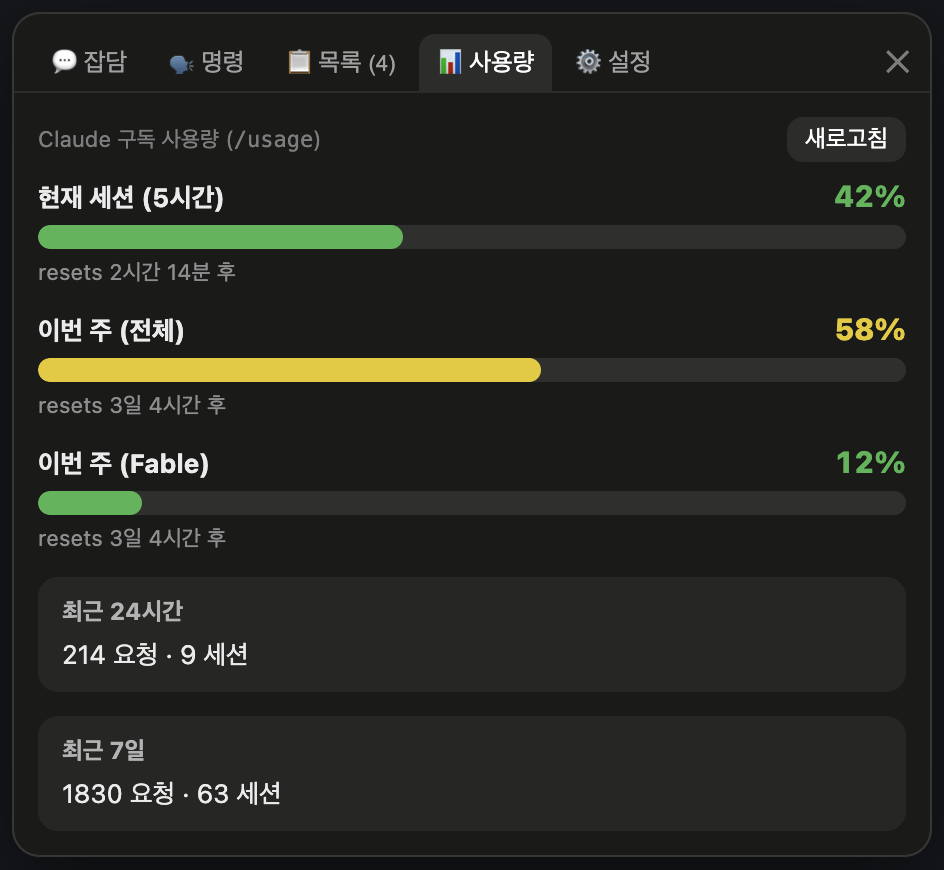
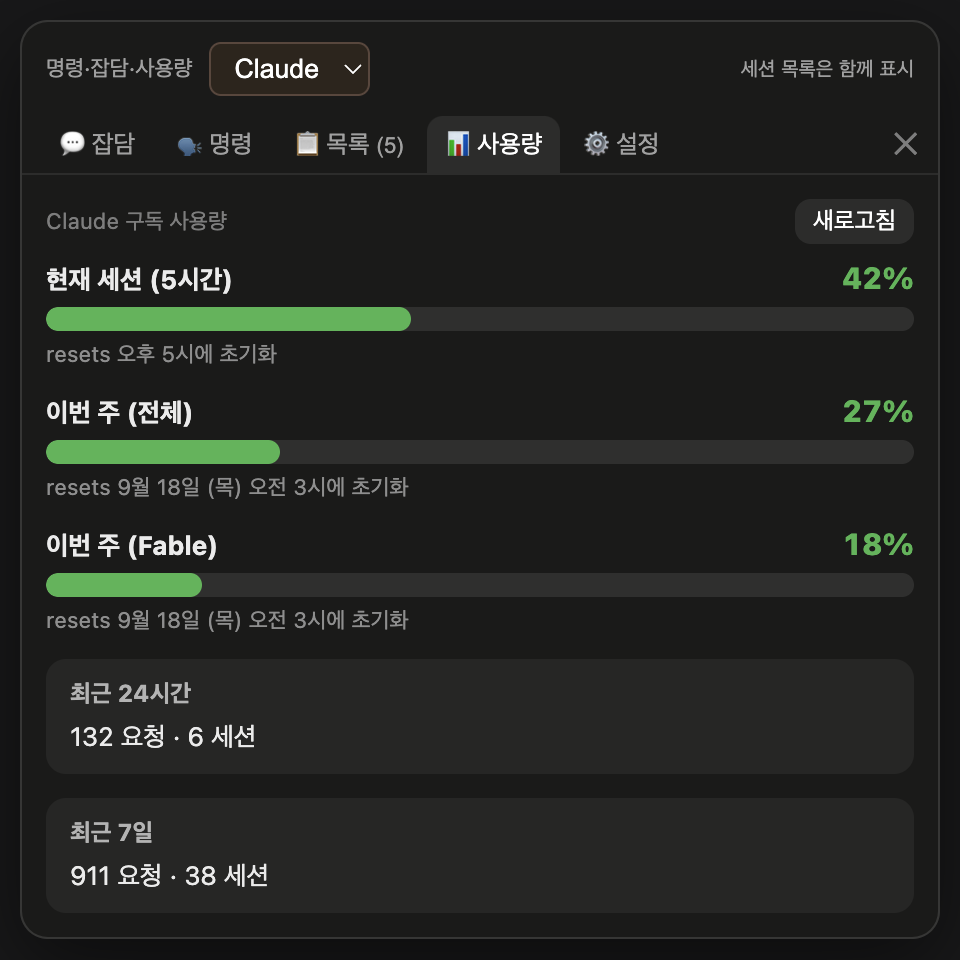
v1.1.0: README·스크린샷 갱신, iTerm2 창 포커스 수정, AGENTS.md 정리
- README: Codex 지원을 본문에 통합(요구 사항·사용법·훅·폼·지원 표·호환성), 세션 폼 경로를
  공용 수신함(~/Library/claude-session-pets-forms)으로 정정, 파일 구조·변경 내역 추가
- 스크린샷 9장 재생성(더미 데이터): Claude·Codex 혼합 세션펫, 알림 링, 목록, 우클릭 메뉴,
  설정, Claude/Codex 사용량 탭, HP바. 생성기 test/screenshots.cjs 추가
- 창 앞으로 가져오기: iTerm2가 셸을 iTermServer 데몬(launchd 직속) 아래에 띄워 조상 체인에
  .app이 없어 nohost("창을 찾지 못했어요")가 나던 문제 — 데몬 이름으로 iTerm2 인식(open -b 폴백)
- AGENTS.md: 기계 치환된 CLAUDE.md 사본을 Codex 에이전트용 짧은 포인터로 교체
- build-app.sh: 번들에서 docs/·AGENTS.md 제외. CLAUDE.md에 lib/test/assets 구조와 iTermServer gotcha 기록

diff --git a/main.js b/main.js
@@ -948,6 +948,10 @@ async function findHostApp(pid) {
     if (!node) break;
     const mm = node.comm.match(/^(.*\/([^/]+)\.app)\/Contents\/MacOS\//);
     if (mm) return { bundlePath: mm[1], appName: mm[2] };
+    // iTerm2는 셸을 .app 안의 실행파일이 아니라 `~/Library/Application Support/iTerm2/iTermServer-<ver>`
+    // 데몬(launchd 직속)으로 띄우므로 조상 체인에 .app 경로가 없다 → 데몬 이름으로 iTerm2를 인식.
+    // (안 하면 nohost → "창을 찾지 못했어요"가 뜬다. 실측: claude ← zsh ← login ← iTermServer-3.6.11 ← launchd)
+    if (/\/iTermServer(-[^/]*)?$/.test(node.comm)) return { bundlePath: null, bundleId: 'com.googlecode.iterm2', appName: 'iTerm2' };
     if (node.ppid <= 1) break;
     cur = node.ppid;
   }
@@ -1049,8 +1053,9 @@ ipcMain.handle('focus-session', async (_e, { pid, tty, cwd }) => {
       // notfound/noproc(제목에 폴더명 없음 등) → 아래 앱 통째 activate로 폴백
     }
     // 폴백: 앱 번들을 앞으로 (특정 창 매칭 실패 시)
+    const openArgs = host.bundlePath ? ['-a', host.bundlePath] : ['-b', host.bundleId];
     const r = await new Promise((res) =>
-      execFile('open', ['-a', host.bundlePath], (err) => res(err)));
+      execFile('open', openArgs, (err) => res(err)));
     if (!r) return { ok: true, app: host.appName };
     return { ok: false, error: String(r.message || r) };
   }

diff --git a/README.md b/README.md
@@ -1,29 +1,54 @@
 # 🐦 Claude Session Pets
 
-실행 중인 **Claude CLI 세션을 감시해, 세션마다 작은 데스크탑 펫을 띄우는** macOS 앱.
+실행 중인 **Claude Code · Codex 세션을 감시해, 세션마다 작은 데스크탑 펫을 띄우는** macOS 앱.
 각 펫이 자기 세션의 상태(작업 중 · 입력 필요 · 완료)와 **지금 하고 있는 작업**을 말풍선으로 보여줍니다.
 
 > Electron 기반. 화면 위를 돌아다니는 투명 오버레이라 다른 작업을 방해하지 않습니다.
 > 메인펫은 어른새, 세션마다 뜨는 작은 펫은 그 아기새입니다(둘 다 원하는 이미지로 교체 가능).
 
-![세션마다 뜨는 펫이 작업 중 · 완료 · 입력 필요 · 폼 대기 상태를 말풍선으로 보여줍니다](docs/screenshots/session-pets.png)
+![Claude·Codex 세션마다 뜨는 펫이 작업 중 · 완료 · 입력 필요 상태를 말풍선으로 보여줍니다. 이름표 아이콘과 테두리 색으로 서비스를 구분합니다](docs/screenshots/session-pets.png)
 
-### 사용량 표시
+**v1.1.0** — Claude Code에 더해 **Codex CLI · Codex 데스크톱 앱** 세션도 함께 표시합니다. 이름표 앞의 아이콘과 초록 테두리가 Codex 펫입니다. 자세한 내용은 [Codex 지원](#codex-지원) 절 참고.
 
-메인펫 머리 위에 **게임 HP바처럼 2줄**(5시간 세션 / 주간)로 Claude 구독 사용량을 표시합니다.
-펫을 클릭 → **📊 사용량** 탭에서 세션·주간(모델별, Fable 등)·최근 24h/7d 상세를 볼 수 있습니다.
+---
+
+## 한눈에 보기
+
+### 알림 강조 — 놓치지 않게
+
+완료·입력 필요·폼 대기 시 펫이 **점프**하고 주위로 **링 파동**이 리듬 있게 퍼집니다(완료=초록, 입력 필요=주황).
+오래 확인하지 않으면 **화면 배경이 어두워져(스포트라이트)** 펫이 도드라집니다. 둘 다 ⚙ 설정에서 켜고 끌 수 있습니다.
+
+![완료 펫엔 초록 링, 입력 필요 펫엔 주황 링이 퍼집니다](docs/screenshots/alert-halo.png)
+
+### 사용량 표시 — 게임 HP바처럼
+
+메인펫 머리 위에 **2줄 HP바**(5시간 세션 / 주간)로 구독 사용량을 표시합니다. 펫을 클릭 → **📊 사용량** 탭에서 상세를 볼 수 있습니다.
+패널 위쪽의 **Claude / Codex** 선택으로 어느 서비스의 사용량을 볼지 고릅니다.
 
 <p align="center">
-  <img src="docs/screenshots/mainpet-hp.png" alt="메인펫 머리 위 사용량 HP바" height="220">
+  <img src="docs/screenshots/mainpet-hp.png" alt="메인펫 머리 위 사용량 HP바" height="230">
   &nbsp;&nbsp;
-  <img src="docs/screenshots/usage-tab.png" alt="사용량 탭 상세" height="220">
+  <img src="docs/screenshots/usage-tab.png" alt="Claude 사용량 탭 — 세션·주간(모델별)·최근 24h/7d" height="230">
+  &nbsp;&nbsp;
+  <img src="docs/screenshots/usage-tab-codex.png" alt="Codex 사용량 탭 — 5시간·주간 구간" height="230">
 </p>
 
-### 세션 폼 (입력이 필요할 때 펫이 폼을 띄움)
+### 세션 목록 — Claude와 Codex를 한 화면에
 
-세션에서 **`/session-form on`** 을 한 번 치면, 이후 클로드가 사용자 확인·선택·입력이 필요할 때(리뷰 결과 승인, 방안 선택 등)
-인라인으로 묻는 대신 **입력 폼**을 만들어 그 세션의 펫에 📋로 띄웁니다. 폼을 채워 **전송**하면 그 답을 세션에 되돌려 작업을 이어갑니다.
-(`/session-form off` 로 끔.) 폼은 `<프로젝트>/docs/form/`에 남습니다.
+**📋 목록** 탭에 이 PC의 Claude CLI 프로세스와 Codex 세션(CLI · 데스크톱 앱 · 공유 서버)이 함께 뜹니다.
+각 행에서 **메시지 보내기**(살아있는 세션에 프롬프트 전달), **종료/중단**, 데스크톱 펫 **숨기기/표시**가 가능합니다.
+
+<p align="center">
+  <img src="docs/screenshots/procs-tab.png" alt="목록 탭 — Claude CLI와 Codex CLI·데스크톱 세션이 함께 표시" width="440">
+  &nbsp;&nbsp;
+  <img src="docs/screenshots/context-menu.png" alt="세션펫 우클릭 메뉴 — 창 앞으로 · Finder 열기 · 폼 모드 · 이미지 변경 · 좌우 반전" width="440">
+</p>
+
+### 세션 폼 — 입력이 필요하면 펫이 폼을 띄움
+
+세션에서 **`/session-form on`**(Claude) 또는 세션펫 우클릭 → **폼 모드 켜기**(Codex)를 하면, 이후 AI가 사용자 확인·선택·입력이 필요할 때
+인라인으로 묻는 대신 **입력 폼**을 만들어 그 세션의 펫에 📋로 띄웁니다. 폼을 채워 **전송**하면 답을 세션에 되돌려 작업을 이어갑니다.
 
 <p align="center">
   <img src="docs/screenshots/form.png" alt="펫이 띄운 입력 폼 — 질문/수정 제안 카드와 [닫기]·[작업 취소]·[전송하고 작업 진행] 버튼" width="480">
@@ -35,13 +60,15 @@
 
 - **macOS** (패키징된 `.app`은 Apple Silicon/arm64. 소스 실행은 Intel/ARM 모두 가능)
 - **Node.js** 18+ 와 npm
-- **Claude CLI** (Claude Code) — 감시 대상
+- 감시 대상 (둘 중 하나 이상)
+  - **Claude Code** (Claude CLI) — 크로스세션 메시지 전달은 v2.1.224+
+  - **Codex CLI** 0.153+ 및/또는 **Codex 데스크톱 앱**
 - **python3** — 상태 훅에 사용(선택. 없으면 트랜스크립트/CPU로 폴백)
 
 ## 설치 & 실행 (소스)
 
 ```bash
-git clone <레포 URL> claude-session-pets
+git clone https://github.com/meamde/claude-session-pets.git
 cd claude-session-pets
 npm install
 npm start          # 또는 ./start.sh (백그라운드 실행 + 중복 방지)
@@ -60,7 +87,11 @@ npm start          # 또는 ./start.sh (백그라운드 실행 + 중복 방지)
 ./build-app.sh --build    # dist/에 빌드만 (설치 안 함)
 ```
 
-내부적으로 `electron-packager` 빌드 → 아이콘 교체 → ad-hoc 재서명 → 구버전 휴지통 이동 → `/Applications` 설치를 자동으로 수행합니다. 전체 절차와 다른 맥 배포 방법은 [`CLAUDE.md`](CLAUDE.md)의 **패키징** 섹션 참고. 앱은 `app.dock.hide()`를 호출하므로 실행 중 독에 아이콘이 보이지 않습니다(독 등록은 Finder에서 드래그).
+내부적으로 `electron-packager` 빌드 → 아이콘 교체 → ad-hoc 재서명 → 구버전 휴지통 이동 → `/Applications` 설치를 자동으로 수행합니다.
+앱은 `app.dock.hide()`를 호출하므로 실행 중 독에 아이콘이 보이지 않습니다(독 등록은 Finder에서 드래그).
+
+**다른 맥에 배포할 때**: 개발자 서명/공증이 없으므로 압축은 서명 보존을 위해 `ditto -c -k --keepParent`로 하고, 받는 쪽에서
+`xattr -dr com.apple.quarantine "/Applications/Claude Session Pets.app"` 후 우클릭 → 열기. 전체 절차는 [`CLAUDE.md`](CLAUDE.md)의 **패키징** 섹션 참고.
 
 ---
 
@@ -69,61 +100,136 @@ npm start          # 또는 ./start.sh (백그라운드 실행 + 중복 방지)
 ### 메인 펫
 - **배회** — 화면 하단(독 위)을 걸어다니고, 쉬고, 가끔 잠도 잡니다.
 - **집어서 옮기기** — 드래그하면 대롱대롱 매달리고, 놓으면 중력으로 떨어져 착지합니다.
-- **클릭 → 패널**
-  - **🗣 명령** — 작업 폴더 지정 후 프롬프트 입력(⌘+Enter) → `claude -p`로 실행, 출력이 실시간 스트리밍. 여러 세션 동시 실행/중단 가능.
-  - **📋 Claude 목록** — 이 PC에서 실행 중인 **모든** Claude CLI 프로세스 표시(작업 폴더 · PID · CPU · 경과시간 · 상태). 개별 종료, 그리고 **실행 중 세션의 터미널에 프롬프트 직접 입력**(해당 tty의 iTerm2/Terminal 탭을 AppleScript로 찾아 타이핑) 가능.
-  - **⚙ 설정** — 펫 이미지 변경, 크기, 좌우 반전, 배경 자동 제거 토글.
+- **클릭 → 패널** (위쪽 **Claude / Codex** 선택이 명령·잡담·사용량에 적용됩니다. 목록은 항상 둘 다 표시)
+  - **💬 잡담** — 펫과 가벼운 대화. 서비스별로 대화 맥락이 따로 유지됩니다.
+  - **🗣 명령** — 작업 폴더 지정 후 프롬프트 입력(⌘+Enter) → `claude -p` 또는 `codex exec`로 실행, 출력이 실시간 스트리밍. 여러 개 동시 실행/중단 가능.
+  - **📋 목록** — 이 PC의 **모든** Claude CLI 프로세스와 Codex 세션(작업 폴더 · PID/세션 · CPU · 경과시간 · 상태). 개별 종료/중단, 그리고 **살아있는 세션에 메시지 보내기**.
+  - **📊 사용량** — 선택한 서비스의 세션(5h)·주간 사용량 상세.
+  - **⚙ 설정** — 펫 이미지 변경, 크기, 좌우 반전, 배경 자동 제거, 알림 링/스포트라이트 토글.
 
 <p align="center">
-  <img src="docs/screenshots/procs-tab.png" alt="목록 탭 — 실행 중인 Claude CLI 세션 목록과 상태" width="480">
+  <img src="docs/screenshots/settings-tab.png" alt="설정 탭 — 이미지·크기·좌우 반전·배경 제거·알림 링·스포트라이트" width="440">
 </p>
 
 ### 세션 펫
-실행 중인 다른 Claude CLI 세션마다 작은 펫이 하나씩 떠서 돌아다닙니다.
-- 이름은 세션 작업 폴더의 최하위 디렉토리명, 머리 위 뱃지는 전체 프로세스 수.
-- **작업 시작** → `🏃 {현재 작업}` 말풍선 (도구 호출마다 "파일명 수정 중", "테스트 실행" 등으로 갱신). 작업 중엔 클릭/드래그해도 말풍선 유지.
+실행 중인 Claude Code · Codex 세션마다 작은 펫이 하나씩 떠서 돌아다닙니다.
+- **이름표** — 세션 이름(없으면 작업 폴더의 최하위 디렉토리명). 앞의 아이콘이 서비스(Claude/Codex), Codex 펫은 초록 테두리. Codex **데스크톱 앱** 세션엔 작은 모니터 배지가 붙습니다.
+- **작업 시작** → `🏃 {현재 작업}` 말풍선 (도구 호출마다 "파일명 수정 중", "npm test 실행" 등으로 갱신). 사용자가 넘긴 프롬프트는 `>_`로 구분. 작업 중엔 클릭/드래그해도 말풍선 유지.
 - **입력 대기** → `🙋 입력 필요!` (갸웃거리며 클릭할 때까지 유지).
 - **완료** → `🎉 작업 완료!` + 방방 뛰는 모션 (클릭하거나 다음 작업 시작 전까지 유지).
-- **알림 강조** — 완료·입력 필요·폼 대기 시 펫이 점프하고 주위로 **링 파동**이 리듬 있게 퍼집니다. 오래 확인하지 않으면 **화면 배경이 어두워져(스포트라이트)** 펫이 도드라집니다. 둘 다 ⚙ 설정에서 켜고 끌 수 있습니다.
+- **폼 대기** → `📋 입력이 필요해요! (클릭)` — 클릭하면 폼 창이 열립니다. 폼은 완료/입력 필요보다 우선 표시됩니다.
 - **세션 종료** → `👋 안녕~` 하고 사라집니다.
-- **우클릭 메뉴** — 창 앞으로 가져오기(그 세션의 IntelliJ/VS Code/iTerm/Terminal 창을 맨 앞으로) · Finder에서 작업 폴더 열기 · 이미지 변경 · 좌우 반전 · 기본 모습으로.
-- **개별 이미지** — 우클릭 메뉴 "이미지 변경…" 또는 드래그&드롭. 작업 폴더 경로 기준으로 저장돼 재시작해도 유지.
-- **더블클릭** — 그 세션의 창(IntelliJ/VS Code/iTerm/Terminal)을 맨 앞으로 가져옵니다. IntelliJ처럼 한 앱에 프로젝트 창이 여럿일 때도 **작업 폴더 이름이 든 정확한 창**을 앞으로 올립니다.
-  - 이 정확한 창 선택은 **손쉬운 사용(Accessibility) 권한**이 필요합니다. 처음 더블클릭할 때 뜨는 팝업에서 허용하거나, **시스템 설정 → 개인정보 보호 및 보안 → 손쉬운 사용**에서 "Claude Session Pets"를 켜 주세요. (권한이 없으면 앱만 통째로 앞으로 오는 동작으로 폴백됩니다.)
+- **더블클릭** — 그 세션의 창(IntelliJ/VS Code/iTerm2/Terminal, Codex 데스크톱은 해당 작업 화면)을 맨 앞으로. IntelliJ처럼 한 앱에 프로젝트 창이 여럿일 때도 **작업 폴더 이름이 든 정확한 창**을 앞으로 올립니다.
+  - 정확한 창 선택은 **손쉬운 사용(Accessibility) 권한**이, iTerm2/Terminal 탭 선택은 **자동화 권한**이 필요합니다. 처음 시도할 때 뜨는 팝업에서 허용하거나 **시스템 설정 → 개인정보 보호 및 보안**에서 "Claude Session Pets"를 켜 주세요. (권한이 없으면 앱만 통째로 앞으로 오는 동작으로 폴백)
+- **우클릭 메뉴** — 창 앞으로 가져오기 · Finder에서 작업 폴더 열기 · (Codex) 폼 모드 켜기/끄기 · (Codex 데스크톱) 펫 숨기기 · 이미지 변경 · 좌우 반전 · 기본 모습으로.
+- **개별 이미지** — 우클릭 메뉴 "이미지 변경…" 또는 이미지 파일 드래그&드롭. 작업 폴더 경로 기준으로 저장돼 재시작해도 유지.
 
 ### 커스텀 캐릭터
 아무 이미지나 넣으면 펫이 됩니다. 단색 배경은 자동 제거 + 여백 트림(PNG 투명 배경은 그대로), 걷기/숨쉬기/드래그/착지 애니메이션이 자동 적용됩니다.
+회전축이 캐릭터 **바닥 중앙**에 고정돼 어떤 이미지든 바닥을 딛고 갸우뚱합니다.
+
+---
+
+## 상태 감지와 훅
+
+### Claude Code
+가장 정확한 감지를 위해 첫 실행 시 **훅 설치 여부를 물어봅니다**. 승인하면:
+- `~/.claude/session-pets-hook.py` 헬퍼 설치
+- `~/.claude/settings.json`에 생명주기 훅 병합 (기존 설정은 `settings.json.session-pets-backup`으로 백업)
+- **새로 시작하는 세션부터** 적용 (이미 실행 중인 세션은 트랜스크립트로 감지). 앱을 업데이트하면 설치된 훅도 자동으로 최신화됩니다.
+- 메뉴바 아이콘에서 언제든 재설치/제거 가능
+
+판정은 **3단 폴백**입니다: ① 훅이 기록한 세션별 상태 파일(`~/.claude/session-pets-status/<session_id>.json`, 도구 호출마다 현재 작업 요약 포함) → ② 트랜스크립트(`~/.claude/projects/…/*.jsonl`)의 마지막 turn 경계 → ③ 누적 CPU 시간 증가.
+
+### Codex
+메뉴바 발바닥 → **Codex 상태 훅 설치…** 로 `~/.codex/hooks.json`에 session-pets 훅을 병합합니다(기존 파일은 `.session-pets-backup`으로 백업, 다른 훅은 유지. `CODEX_HOME`을 지정했으면 그 경로).
+설치 후 Codex에서 **`/hooks`를 열어 추가된 훅을 신뢰**해 주세요. 훅 정의가 바뀌면 다시 신뢰를 요구할 수 있습니다.
+훅 없이도 데스크톱 앱의 실행 상태와 CLI의 턴 경계는 감지하지만, **CLI 권한 대기의 정확한 표시와 폼 모드**에는 훅이 필요합니다.
+
+---
+
+## 세션 폼
+
+### Claude Code — `/session-form on`
+세션에서 `/session-form on`을 한 번 치면 그 세션은 폼 모드가 됩니다(`/session-form off`로 끔, 인자 없이 치면 토글).
+이후 사용자 확인이 필요한 순간에 Claude가 폼 JSON을 **`~/Library/claude-session-pets-forms/`**(공용 수신함)에 쓰고 턴을 끝내면, 앱이 이를 감지해 **그 세션의 펫**에 📋를 띄웁니다.
+- 폼에는 세션 id가 박혀 있어 같은 폴더의 다른 세션 펫이 가로채지 않습니다.
+- **[전송하고 작업 진행]** — 답을 세션의 inbox 소켓에 직접 주입합니다(1초 미만, Warp 포함 모든 터미널). 실패 시 크로스세션 relay/헤드리스로 폴백.
+- **[작업 취소]** — 폼을 보니 그 작업 자체가 불필요할 때. 세션에 중단 지시를 보냅니다.
+- 처리된 폼은 `done/`으로 이동합니다(답변 `.answer.json` 포함).
+
+### Codex — 우클릭 → 폼 모드
+Codex 세션펫 우클릭 → **폼 모드 켜기/끄기**. 다음 사용자 메시지부터 폼 생성 지시가 들어갑니다(훅 필요).
+폼은 그 프로젝트의 **`.session-pets/forms/`**에 저장되고, 답변 전달에 성공하면 `done/`으로 이동합니다. 이 폴더는 버전 관리에서 제외하세요(이 저장소는 `.gitignore`에 포함).
+Codex의 파일 접근 정책상 폼을 쓸 수 없으면 원래 질문 방식으로 돌아갑니다. Codex 자체 도구의 권한 승인은 폼과 별개이며, 이미 승인/질문을 기다리는 데스크톱 세션에는 원래 화면에서 응답합니다.
+
+---
+
+## Codex 지원
+
+기존 Claude 기능과 저장된 이미지·설정을 그대로 유지하면서 Codex 세션을 함께 표시합니다. 앱 이름은 **Claude Session Pets**로 유지됩니다.
+
+| 대상 | 감지 | 메시지 전달 | 종료/중단 |
+|---|---|---|---|
+| **Codex CLI** | 실행 중인 프로세스가 열고 있는 세션 기록으로 정확한 세션 ID를 찾음 (같은 폴더의 여러 세션 구분) | `codex queue`로 해당 스레드에 전달 | 선택한 CLI 프로세스만 종료 |
+| **Codex 데스크톱 앱** | 앱의 로컬 IPC를 관찰해 작업·승인·입력 대기 표시. 더블클릭하면 해당 작업 화면을 열음 | 원래 앱의 세션으로 전달 | 해당 작업만 중단 |
+| **공유 App Server** | 기본 제어 소켓이 있으면 로드된 스레드와 실행 상태 조회 | 스레드로 전달 | 해당 작업만 중단 (서버 전체는 종료하지 않음) |
+
+- **명령/잡담** — 패널의 Claude/Codex 선택에 따라 `codex exec`로 실행. 잡담은 서비스별 대화 ID를 따로 저장해 Codex도 이전 대화를 이어갑니다.
+- **사용량** — Codex의 실제 사용량 구간(5시간·주간)을 읽습니다. 값이 없으면 `–`.
+- **데스크톱 세션펫 숨기기** — 데스크톱 세션은 많이 뜰 수 있어, 펫을 **0.6초 꾹 누르면** 편집 모드가 되고 × 로 그 펫만 숨깁니다(작업은 유지). 숨김은 세션 ID별로 저장되며, 새 턴이 시작되거나 작업이 재개되면 자동으로 다시 나타납니다. 목록 탭의 **펫 표시**로 복원.
+- `SESSION_PETS_CODEX_BIN`으로 Codex 실행 파일 위치를 지정할 수 있습니다(기본: Codex.app/ChatGPT.app 내장, `~/.local/bin`, Homebrew 순으로 탐색).
+
+### 검증 범위와 호환성
+2026-09, macOS / **Codex CLI 0.153.4** 환경에서 다음을 확인했습니다: 데스크톱 세션과 CLI 동시 감지 · CLI 메시지 큐 → 같은 세션의 후속 응답 · 폼 감지→답변 전송→완료 이동 · 데스크톱 세션으로 직접 메시지 전달 · 실제 계정 사용량 조회 · `codex exec` 실행과 같은 대화 ID로 잡담 이어가기.
+
+데스크톱 IPC는 공개 App Server 규격과 다른 **내부 인터페이스**(스트림 버전 11 기준 호환 계층)입니다. 알 수 없는 버전은 처리하지 않으며, Codex 업데이트 시 재검증이 필요합니다. 로컬 Mac의 세션만 대상이며 원격 호스트·클라우드 작업은 감시하지 않습니다.
 
 ---
 
 ## 동작 방식
 
 - **투명 오버레이** — 항상 위, 전체 화면 크기 창. 펫/패널 위가 아닐 땐 마우스가 완전히 통과합니다.
-- **프로세스 감지** — `ps` 출력에서 Claude CLI만 필터링(데스크탑 앱 제외), `lsof`로 각 세션의 작업 폴더 조회. 1초마다 갱신.
-- **작업 중 / 유휴 판정 (정확도 순 3단 폴백)**
-  1. **상태 훅** (가장 정확) — Claude Code 생명주기 훅이 세션별 상태 파일 `~/.claude/session-pets-status/<session_id>.json`을 직접 기록. `UserPromptSubmit`→작업 중, `Stop`→유휴, `Notification`→입력 필요, `SessionEnd`→종료. 세션 id로 프로세스와 정확히 매칭. 도구 호출(`PreToolUse`)마다 현재 작업 요약도 기록.
-  2. **트랜스크립트** — 훅이 없는(설치 전 시작된) 세션은 `~/.claude/projects/<인코딩된 cwd>/*.jsonl`의 마지막 turn 경계(`tool_use`=진행 중, `end_turn`=유휴) + mtime으로 판정.
-  3. **CPU 시간** — 위 둘 다 없으면 누적 CPU 시간 증가로 폴백.
-- **명령 실행** — `claude -p --output-format text`를 지정 폴더에서 spawn, stdout/stderr를 패널로 스트리밍.
-- **tty 주입** — 실행 중 세션의 tty를 찾아 AppleScript로 해당 터미널 탭에 타이핑(iTerm2/Terminal.app. tmux/VS Code 터미널 미지원, 최초 사용 시 자동화 권한 필요).
+- **프로세스 감지** — `ps` 출력에서 Claude CLI만 필터링(데스크탑 앱 제외), `lsof`로 각 세션의 작업 폴더 조회. Codex는 `lib/codex.js`가 CLI 프로세스·데스크톱 IPC·App Server를 관찰. 1초마다 갱신.
+- **명령 실행** — `claude -p --output-format text` / `codex exec --json`을 지정 폴더에서 spawn, 출력을 패널로 스트리밍.
+- **메시지 전달** — Claude는 세션의 inbox 소켓(크로스세션 메시징)에 직접 주입, Codex는 `codex queue`. 터미널 종류와 무관하게 동작합니다.
+- **창 앞으로** — pid의 조상 프로세스에서 호스트 GUI 앱을 찾아 AppleScript로 해당 탭/창을 raise. iTerm2는 셸을 별도 데몬(`iTermServer`) 아래에 띄우므로 데몬 이름으로 인식합니다. tmux 안의 세션은 호스트를 알 수 없어 미지원.
 
-### 상태 훅 설치
-가장 정확한 감지를 위해 첫 실행 시 **훅 설치 여부를 물어봅니다**. 승인하면:
-- `~/.claude/session-pets-hook.py` 헬퍼 설치
-- `~/.claude/settings.json`에 생명주기 훅 병합 (기존 설정은 `settings.json.session-pets-backup`으로 백업)
-- **새로 시작하는 세션부터** 적용 (이미 실행 중인 세션은 트랜스크립트로 감지)
-- 메뉴바 아이콘에서 언제든 재설치/제거 가능
+## 테스트
 
----
+```bash
+npm test          # 단위·폼 통합 테스트 (외부 AI 실행 없음)
+npm run test:ui   # 실제 Electron 렌더 테스트 (운영 앱과 별도 userData)
+npm run test:live # 실행 중 Codex 세션·계정 사용량 읽기 전용 검증
+npx electron test/screenshots.cjs   # README 스크린샷(docs/screenshots/) 재생성 — 더미 데이터
+```
 
 ## 파일 구조
 
 | 파일 | 역할 |
 |---|---|
-| `main.js` | Electron 메인 — 창/트레이, 프로세스 조회(ps/lsof), 훅 설치, tty 주입, `claude -p` 실행, 이미지 저장 |
-| `preload.js` | IPC 브릿지 |
+| `main.js` | Electron 메인 — 창/트레이, 프로세스 조회(ps/lsof), 훅 설치, 창 포커스, 폼 수신함, `claude -p` 실행, 이미지 저장 |
+| `preload.js` / `form-preload.js` | IPC 브릿지 (펫 렌더러 / 폼 창) |
 | `pet.html` | 펫 + 패널 마크업/CSS(애니메이션 keyframes 포함) |
-| `pet.js` | 렌더러 — 메인/세션 펫 상태머신(배회·드래그·낙하), 말풍선, 배경 제거(flood fill), 패널 로직 |
-| `start.sh` | 개발용 백그라운드 실행 스크립트 |
+| `pet.js` | 렌더러 — 메인/세션 펫 상태머신(배회·드래그·낙하), 말풍선·알림, 배경 제거(flood fill), 패널 로직 |
+| `lib/codex.js` | Codex 연결 — CLI 프로세스/세션 기록, App Server RPC, `codex queue`/`exec`, 사용량 |
+| `lib/codex-ipc.js` | Codex 데스크톱 앱 IPC 호환 계층 |
+| `lib/codex-hooks.js` / `lib/codex-hook.py` | Codex 훅 설치기 / 훅 스크립트 원본 |
+| `assets/` | 세션 이름표용 서비스 아이콘 |
+| `test/` | 단위·UI·라이브 테스트, 스크린샷 생성기 |
+| `start.sh` / `build-app.sh` | 개발용 백그라운드 실행 / `.app` 빌드·설치 |
 | `build/icon.icns` | 앱 아이콘 (어른새) |
 | `CLAUDE.md` | 개발/패키징 가이드 (기여 시 참고) |
+
+## 변경 내역
+
+### 1.1.0
+- **Codex 지원** — Codex CLI · 데스크톱 앱 · 공유 App Server 세션 감지, 메시지 전달, 중단, 사용량, 폼 모드, 훅 설치기. 패널 Claude/Codex 선택.
+- 세션 이름표에 서비스 아이콘, Codex 펫 초록 테두리, 데스크톱 세션 배지·숨기기.
+- **창 앞으로 가져오기**: iTerm2 세션 인식 수정(`iTermServer` 데몬 아래에 뜨는 셸도 호스트 판정).
+- 테스트 스위트(`npm test`, `test:ui`, `test:live`)와 스크린샷 생성기 추가.
+
+### 1.0.1
+- 세션펫 우클릭 메뉴에 'Finder에서 작업 폴더 열기'.
+- 알림 강조(헤일로 링 + 점프 + 스포트라이트, 설정 토글).
+- 세션펫 더블클릭 = 창 앞으로. 폼 UX 개선(작업 취소, 전송 후 자동 닫기).

diff --git a/AGENTS.md b/AGENTS.md
@@ -1,0 +1,12 @@
+# AGENTS.md — Codex 에이전트용 안내
+
+이 저장소의 개발 가이드는 **[`CLAUDE.md`](CLAUDE.md)** 하나로 관리한다. Codex로 작업할 때도 그 문서를 그대로 따를 것
+(파일 구조 · 상태 감지 우선순위 · 세션펫 상태머신 · 폼 · 패키징 · 공개 저장소 유출 금지 규칙 전부 포함).
+
+Codex 연동 코드에 한해 추가로 알아둘 것:
+
+- `lib/codex.js` — Codex CLI 프로세스/세션 기록 매칭, App Server RPC(`codex app-server --stdio`), `codex queue`/`codex exec`, 사용량 조회.
+- `lib/codex-ipc.js` — Codex **데스크톱 앱** 로컬 IPC 호환 계층(내부 인터페이스, 스트림 버전 11 기준). 알 수 없는 버전은 처리하지 않는다. Codex 업데이트 시 재검증.
+- `lib/codex-hooks.js` + `lib/codex-hook.py` — `~/.codex/hooks.json`(또는 `$CODEX_HOME`)에 훅 병합 / 훅 스크립트 **원본**. 설치된 스크립트 파일은 생성물이므로 직접 고치지 말고 원본을 수정.
+- Codex 폼 모드 마커·폼 저장 위치는 프로젝트의 `.session-pets/`(gitignore됨). Claude 쪽 폼은 `~/Library/claude-session-pets-forms/`로 서로 다르다.
+- 테스트: `npm test`(단위·폼) · `npm run test:ui`(Electron 렌더) · `npm run test:live`(실행 중 Codex 세션 읽기 전용). 스크린샷은 `npx electron test/screenshots.cjs`.
